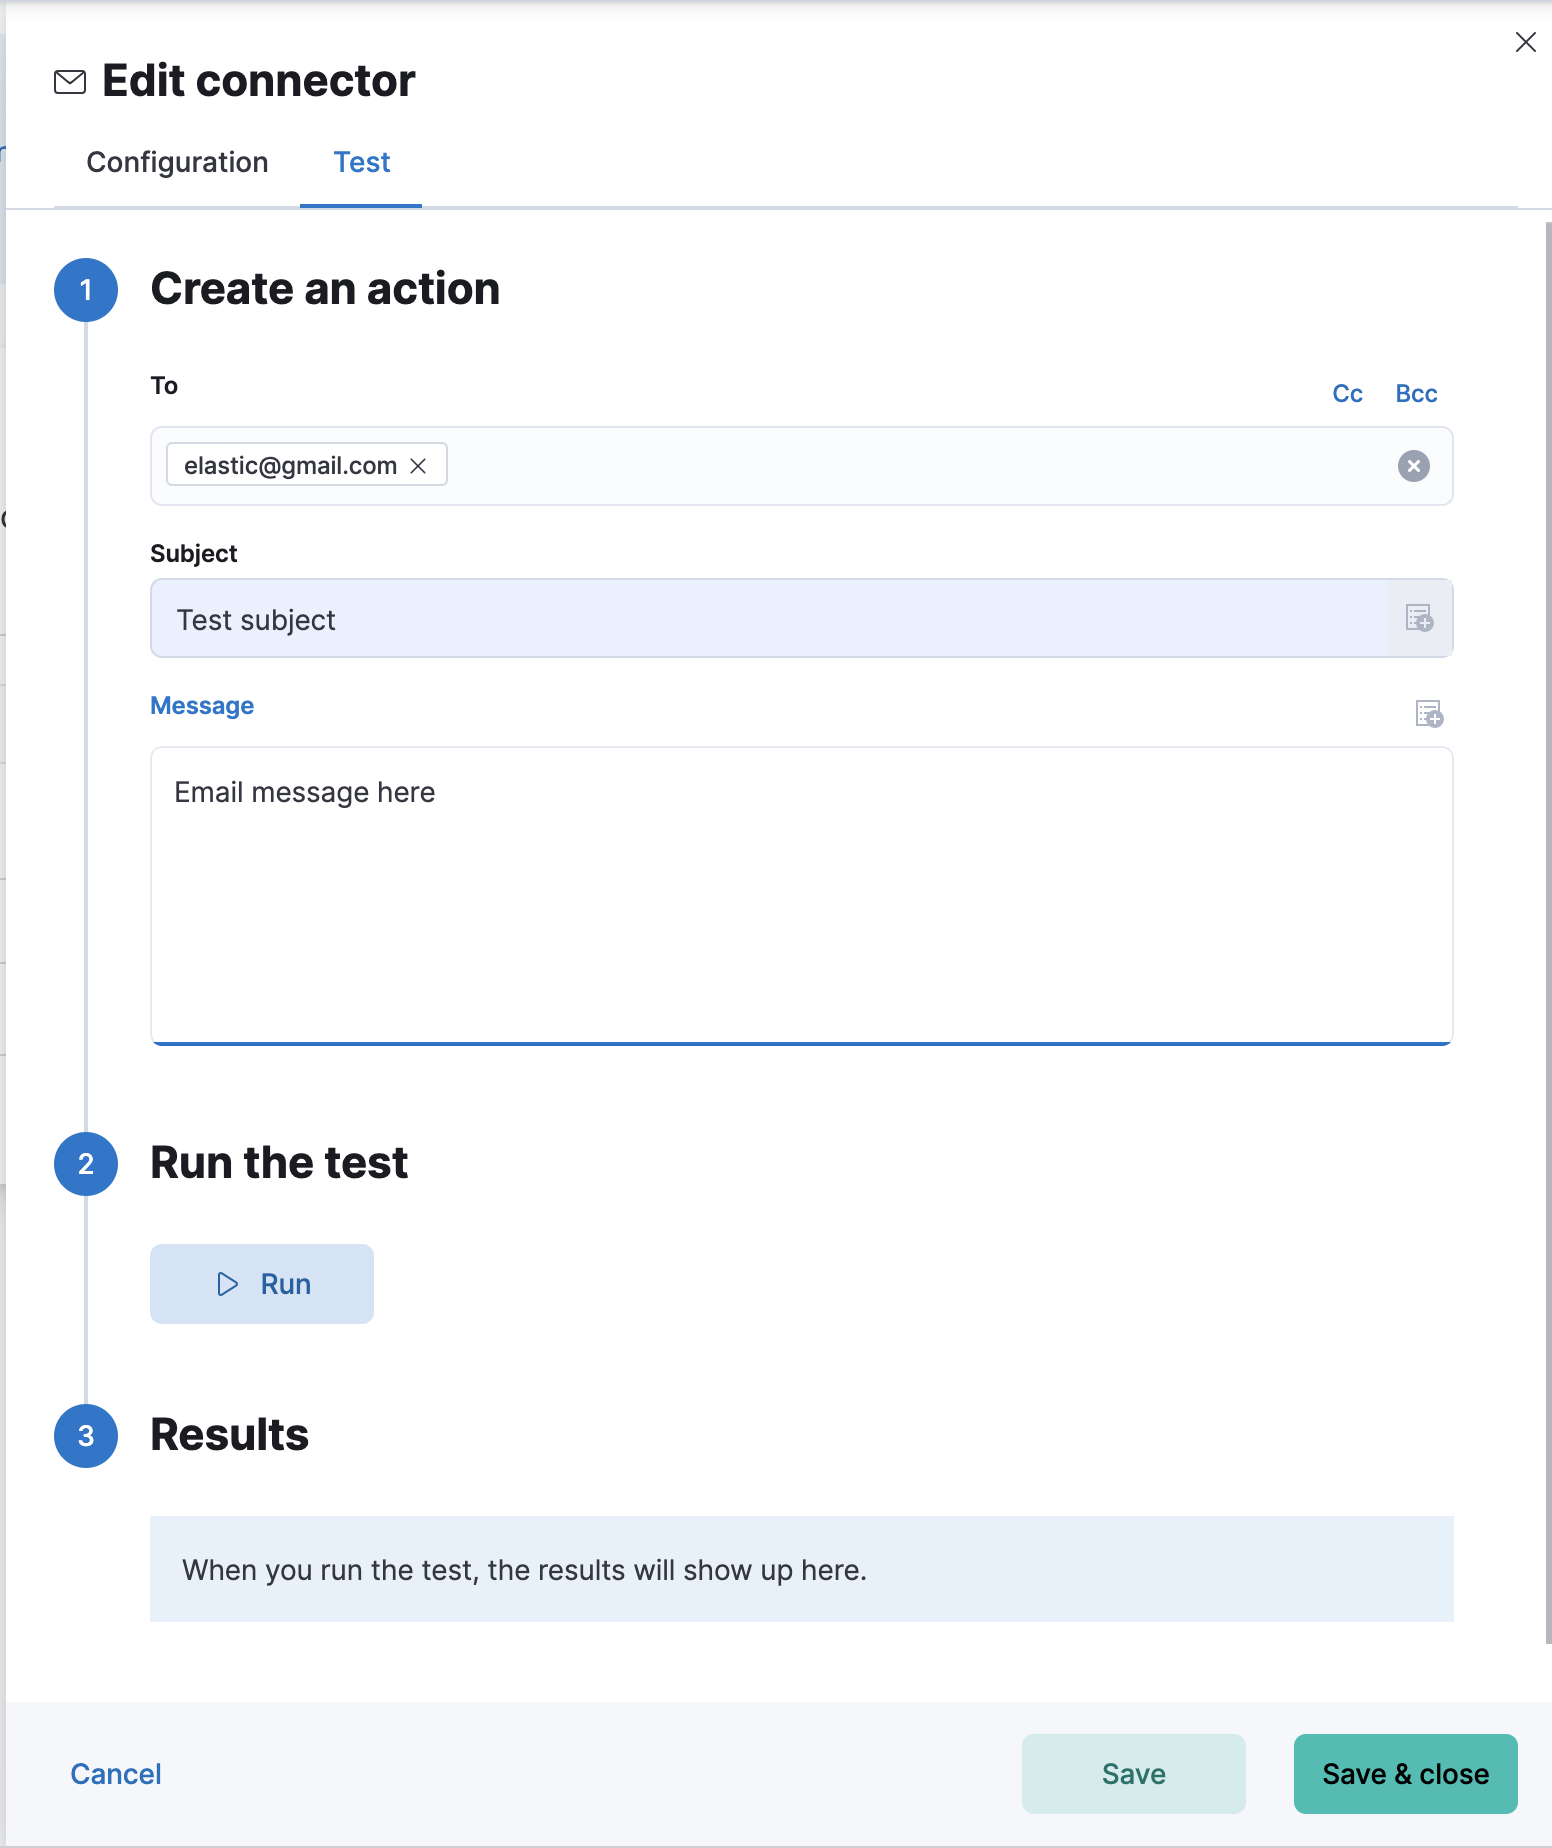
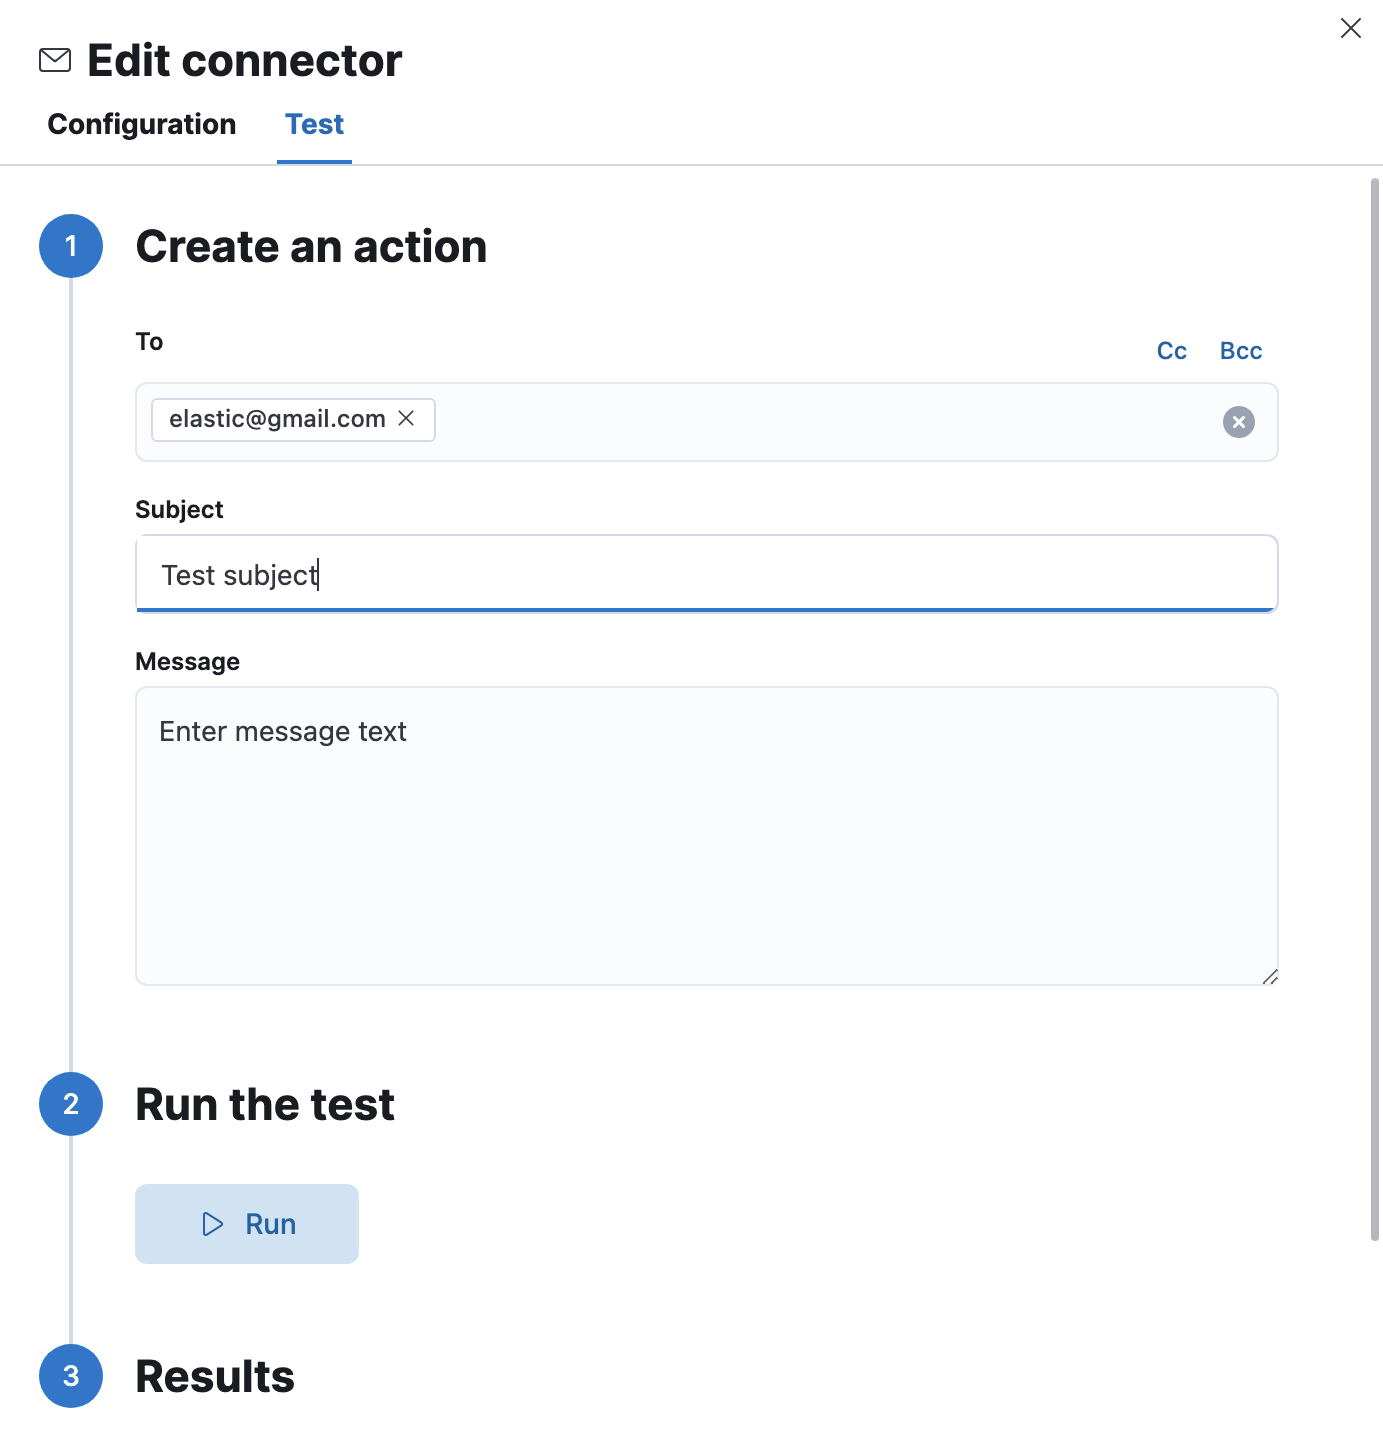
[DOCS] Automate email-params-test.png, add title in connector table rows (#155469)

diff --git a/x-pack/test/screenshot_creation/apps/response_ops_docs/stack_connectors/connector_types.ts b/x-pack/test/screenshot_creation/apps/response_ops_docs/stack_connectors/connector_types.ts
@@ -12,8 +12,10 @@ export default function ({ getService, getPageObjects }: FtrProviderContext) {
   const screenshotDirectories = ['response_ops_docs', 'stack_connectors'];
   const pageObjects = getPageObjects(['common', 'header']);
   const actions = getService('actions');
-  const testSubjects = getService('testSubjects');
+  const browser = getService('browser');
   const comboBox = getService('comboBox');
+  const find = getService('find');
+  const testSubjects = getService('testSubjects');
   const testIndex = `test-index`;
   const indexDocument =
     `{\n` +
@@ -21,11 +23,34 @@ export default function ({ getService, getPageObjects }: FtrProviderContext) {
     `"rule_name": "{{rule.name}}",\n` +
     `"alert_id": "{{alert.id}}",\n` +
     `"context_message": "{{context.message}}"\n`;
+  const emailConnectorName = 'my-email-connector';
 
   describe('connector types', function () {
+    let emailConnectorId: string;
+    before(async () => {
+      ({ id: emailConnectorId } = await actions.api.createConnector({
+        name: emailConnectorName,
+        config: {
+          service: 'other',
+          from: 'bob@example.com',
+          host: 'some.non.existent.com',
+          port: 25,
+        },
+        secrets: {
+          user: 'bob',
+          password: 'supersecret',
+        },
+        connectorTypeId: '.email',
+      }));
+    });
+
     beforeEach(async () => {
       await pageObjects.common.navigateToApp('connectors');
       await pageObjects.header.waitUntilLoadingHasFinished();
+    });
+
+    after(async () => {
+      await actions.api.deleteConnector(emailConnectorId);
     });
 
     it('server log connector screenshots', async () => {
@@ -68,6 +93,32 @@ export default function ({ getService, getPageObjects }: FtrProviderContext) {
       await commonScreenshots.takeScreenshot('email-connector', screenshotDirectories);
       const flyOutCancelButton = await testSubjects.find('euiFlyoutCloseButton');
       await flyOutCancelButton.click();
+    });
+
+    it('test email connector screenshots', async () => {
+      const searchBox = await find.byCssSelector('[data-test-subj="actionsList"] .euiFieldSearch');
+      await searchBox.click();
+      await searchBox.clearValue();
+      await searchBox.type('my actionTypeId:(.email)');
+      await searchBox.pressKeys(browser.keys.ENTER);
+      const connectorList = await testSubjects.find('actionsTable');
+      const emailConnector = await connectorList.findByCssSelector(
+        `[title="${emailConnectorName}"]`
+      );
+      await emailConnector.click();
+      const testButton = await testSubjects.find('testConnectorTab');
+      await testButton.click();
+      await testSubjects.setValue('comboBoxSearchInput', 'elastic@gmail.com');
+      await testSubjects.setValue('subjectInput', 'Test subject');
+      await testSubjects.setValue('messageTextArea', 'Enter message text');
+      /* timing issue sometimes happens with the combobox so we just try to set the subjectInput again */
+      await testSubjects.setValue('subjectInput', 'Test subject');
+      await commonScreenshots.takeScreenshot(
+        'email-params-test',
+        screenshotDirectories,
+        1400,
+        1024
+      );
     });
   });
 }

diff --git a/x-pack/plugins/triggers_actions_ui/public/application/sections/actions_connectors_list/components/actions_connectors_list.tsx b/x-pack/plugins/triggers_actions_ui/public/application/sections/actions_connectors_list/components/actions_connectors_list.tsx
@@ -234,6 +234,7 @@ const ActionsConnectorsList: React.FunctionComponent = () => {
           <>
             <EuiLink
               data-test-subj={`edit${item.id}`}
+              title={name}
               onClick={() => editItem(item, EditConnectorTabs.Configuration)}
               key={item.id}
               disabled={actionTypesIndex ? !actionTypesIndex[item.actionTypeId]?.enabled : true}
